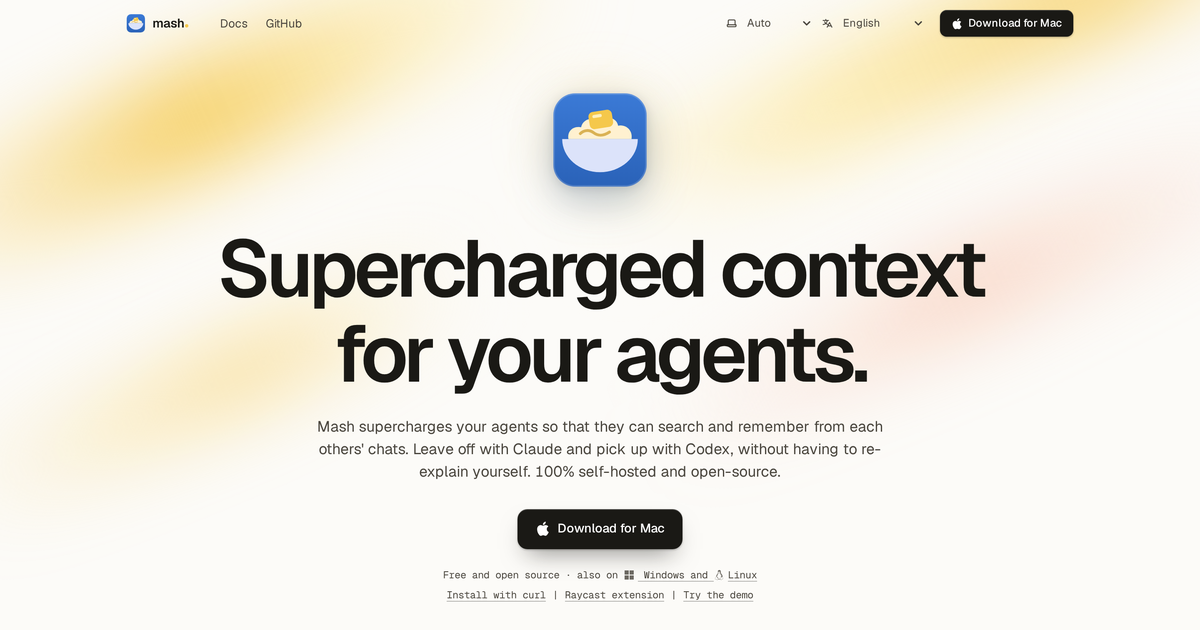
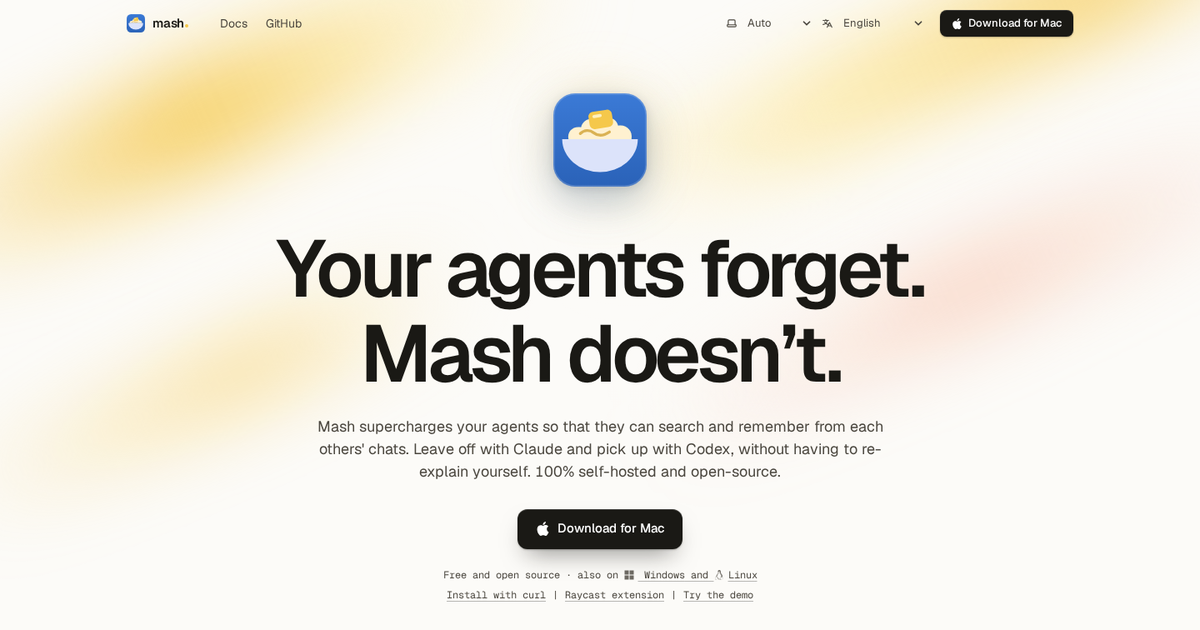
Bring back Your agents forget. Mash doesn't. as the landing headline
The tagline stays in the page title and link previews.

diff --git a/site/tests/landing.spec.ts b/site/tests/landing.spec.ts
@@ -4,10 +4,8 @@ const agents = ["Claude Code", "Codex", "GitHub Copilot", "Cursor", "OpenCode", 
 
 test("the landing page says what Mash is and which agents it reads", async ({ page }) => {
   await page.goto("/");
-  await expect(page.locator("h1")).toHaveText("Supercharged context for your agents.");
+  await expect(page.locator("h1")).toHaveText("Your agents forget. Mash doesn’t.");
   await expect(page).toHaveTitle("Mash: Supercharged context for your agents.");
-  // The old headline is gone from the page.
-  await expect(page.getByText("Your agents forget", { exact: false })).toHaveCount(0);
   const marks = page.locator(".mash-agents li");
   await expect(marks).toHaveCount(agents.length);
   await expect(marks).toHaveText(agents);

diff --git a/site/src/brand.ts b/site/src/brand.ts
@@ -1,6 +1,9 @@
 /**
- * Mash's tagline: the landing page's headline, the description of any page
- * that gives none, and the tagline in the landing page's title and link
- * previews. astro.config.mjs repeats it as Starlight's default description.
+ * Mash's tagline: the description of any page that gives none, and the
+ * tagline in the landing page's title and link previews. astro.config.mjs
+ * repeats it as Starlight's default description.
  */
 export const tagline = "Supercharged context for your agents.";
+
+/** The landing page's headline, one line each. */
+export const headline = ["Your agents forget.", "Mash doesn’t."] as const;
